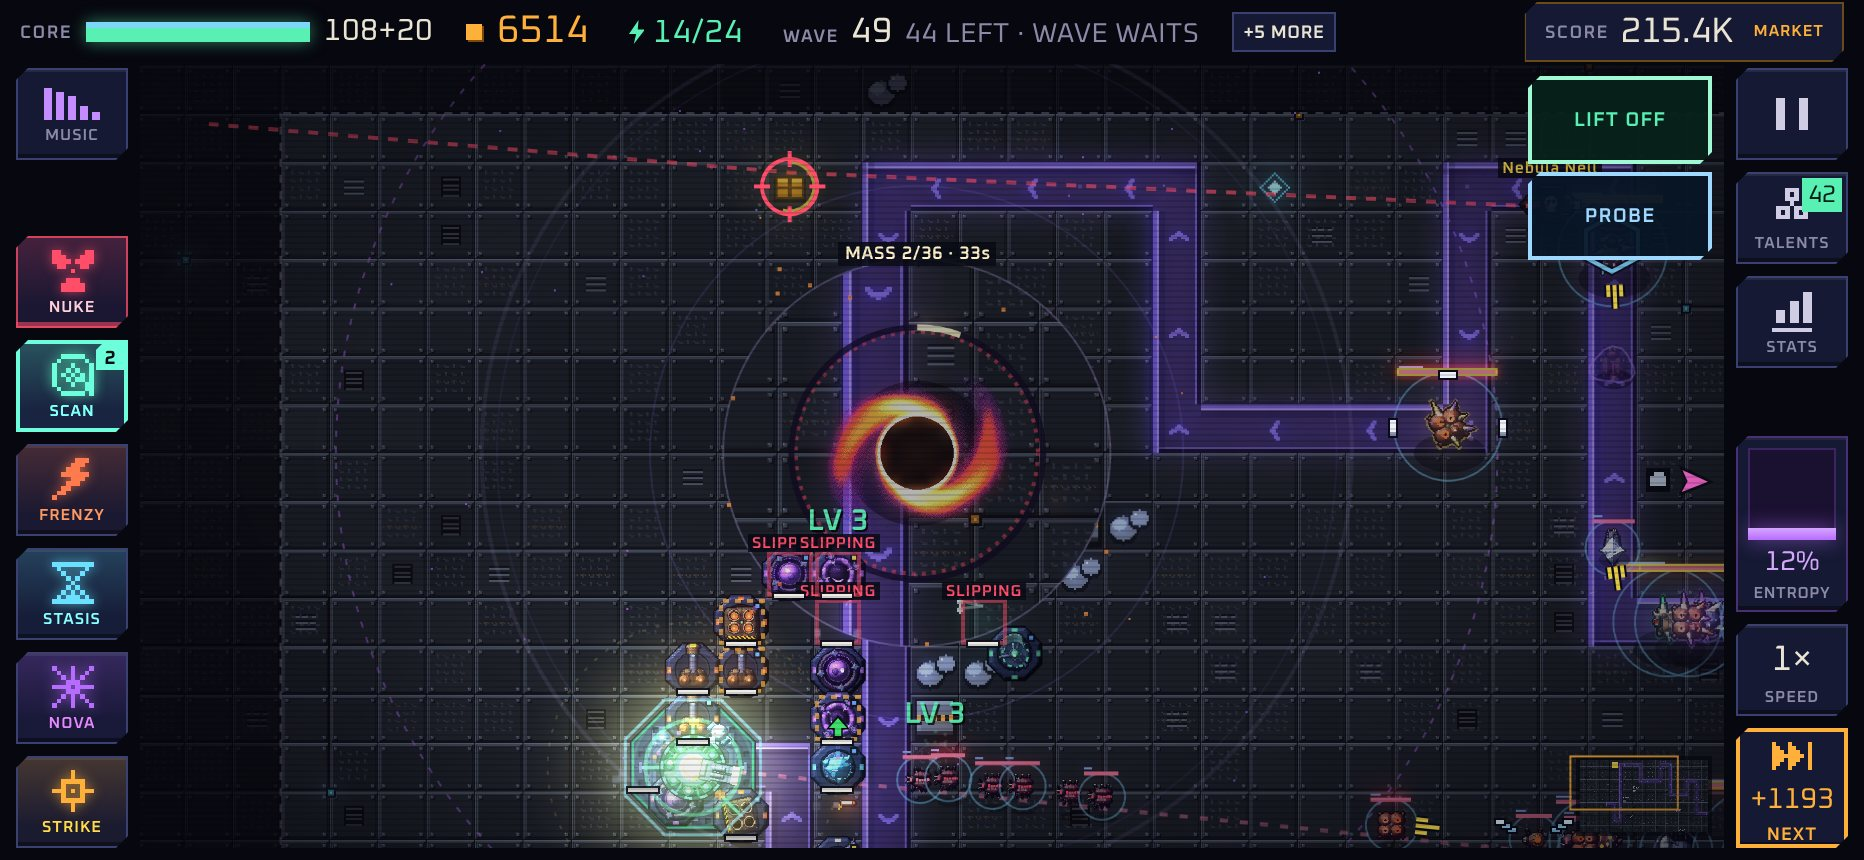
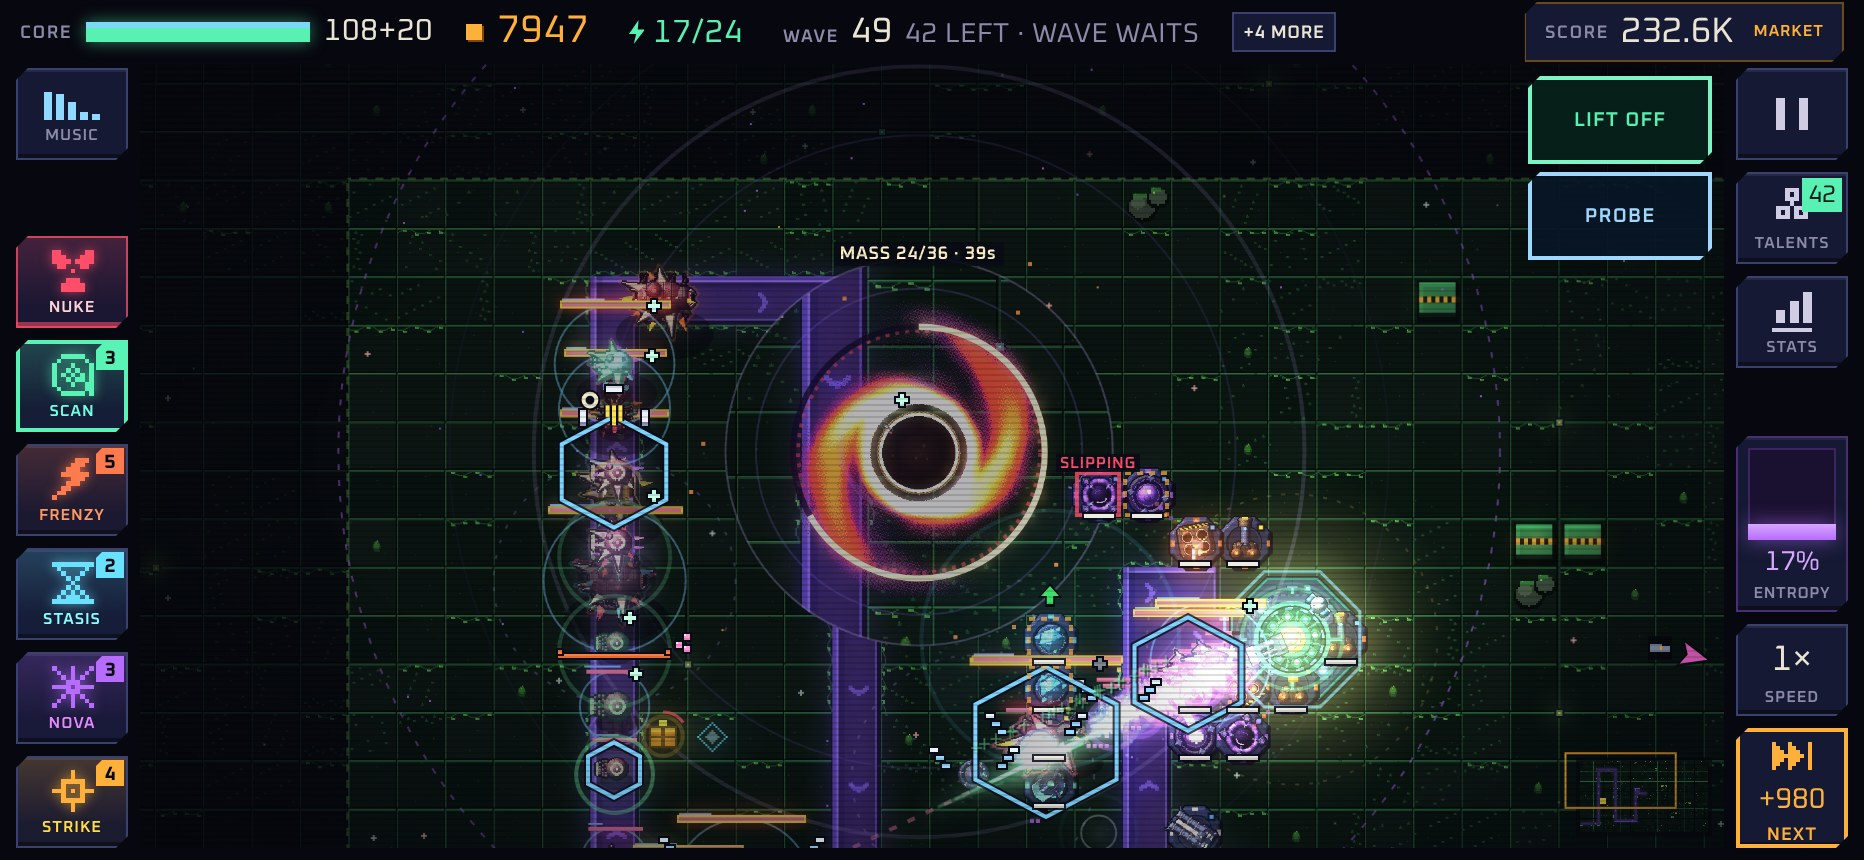
Website: new pictures (modest rank, no level labels)
Claude-Session: https://claude.ai/code/session_01CJF2sKeQsZL3ECfV2JzANT

diff --git a/index.html b/index.html
@@ -178,7 +178,7 @@ body { background-image: radial-gradient(1.5px 1.5px at 40px 70px, rgba(233,228,
 <section class="lead">
   <div class="wrap">
     <figure class="shot">
-      <div class="device"><img src="img/fight.jpg" alt="Wave 49: a Black Hole has landed beside a build of about 15 towers at 14 of 24 power. Its Mass meter reads 2 of 36 with 33 seconds left, and four towers near it are slipping toward the center." width="1864" height="860"></div>
+      <div class="device"><img src="img/fight.jpg" alt="Wave 49: a Black Hole has landed beside a build of 17 towers at 17 of 24 power. Its Mass meter reads 24 of 36 with 39 seconds left, and a tower near it is slipping toward the center." width="1864" height="860"></div>
       <figcaption><b>Wave 49.</b> A Black Hole has landed on my biggest build and is pulling towers in. Feed it the swarm in 45 seconds and it bursts into a White Hole. Starve it and it keeps the towers it ate for a few waves.</figcaption>
     </figure>
   </div>
@@ -224,7 +224,7 @@ body { background-image: radial-gradient(1.5px 1.5px at 40px 70px, rgba(233,228,
         <figcaption><b>Talents.</b> Seven trees. Rows open every 3 points, and a Capstone at 12 changes how you play.</figcaption>
       </figure>
       <figure class="shot">
-        <img src="img/ranks.jpg" alt="The Ranks page: a Vice Admiral III career rank badge with 120 days served, a Supernova 3 emblem named Flare, and the row of service ranks below." width="1864" height="860" loading="lazy">
+        <img src="img/ranks.jpg" alt="The Ranks page: a Lieutenant I career rank badge with 12 days served, and the row of service ranks below." width="1864" height="860" loading="lazy">
         <figcaption><b>Ranks.</b> Your career rank counts every XP you ever earn, and a Supernova never takes it away. The ranks you have not reached stay hidden until you get close.</figcaption>
       </figure>
     </div>
